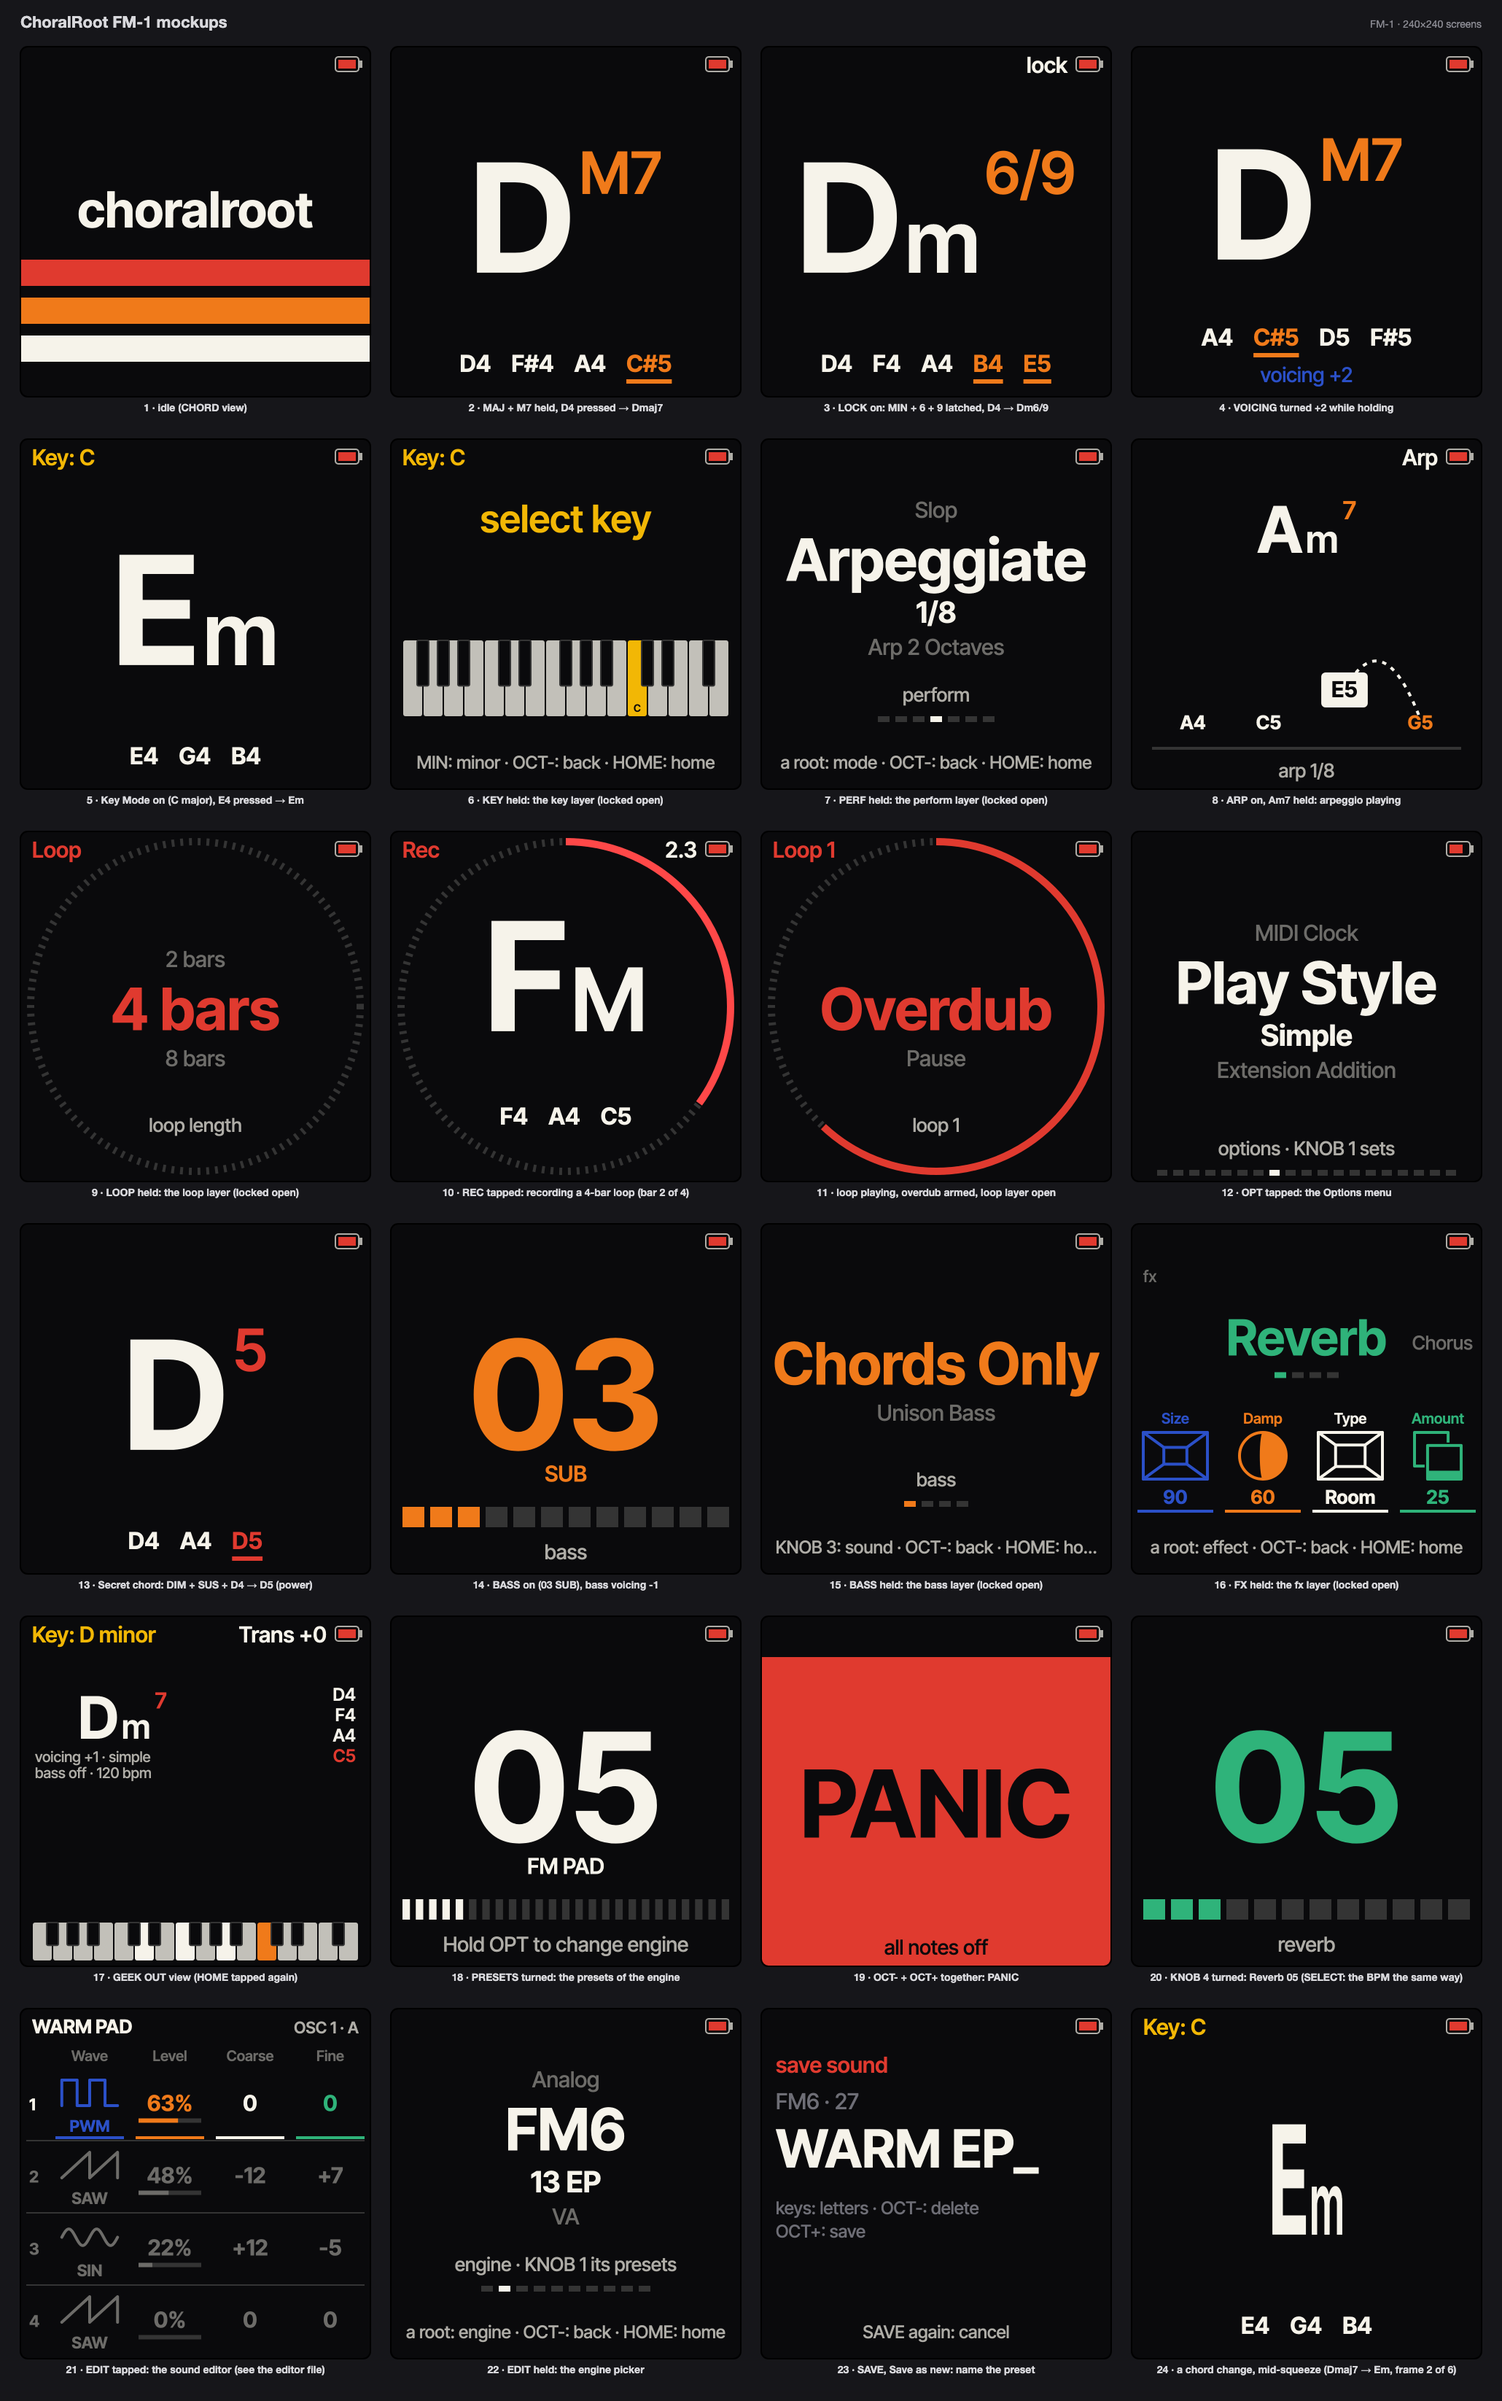
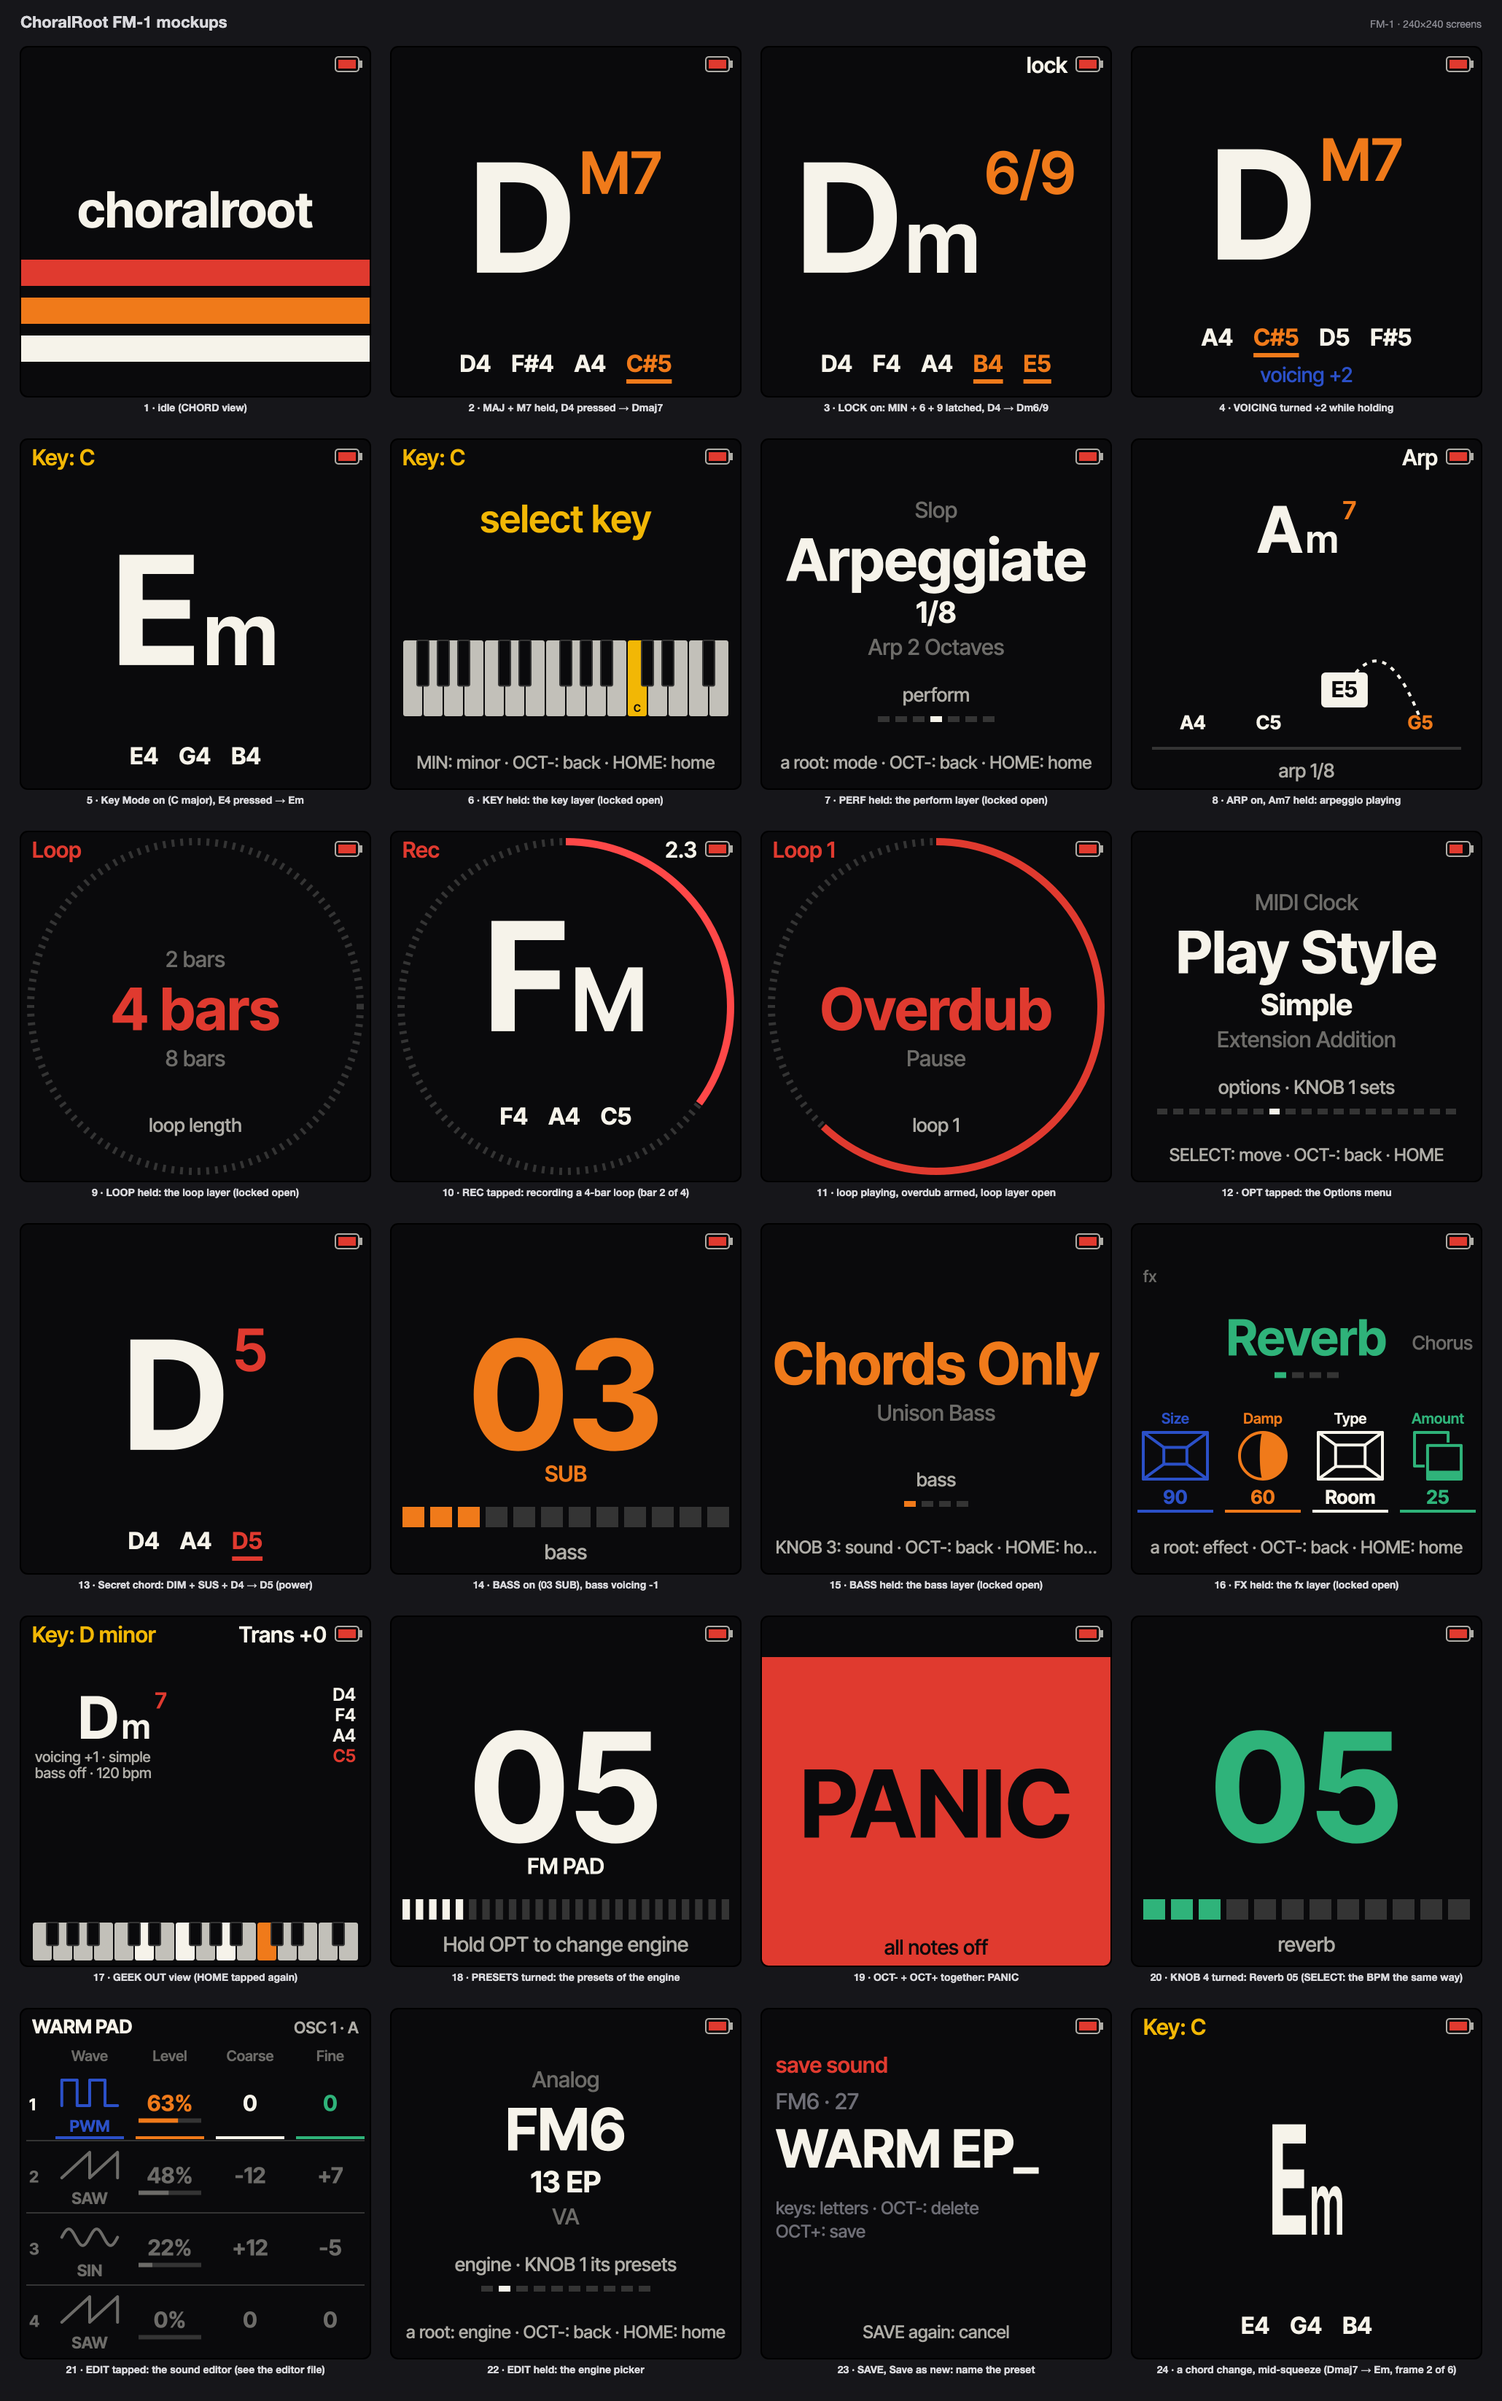
Mock-up sheets re-rendered: the layers sheet (SEQ), the Options screen's foot line
design/choralroot-fm1-layers-screens.png, -screens.png and -panels.png from
the current generator JSONs (unchanged); the other seven sheets are identical
or differ by antialiasing only and stay.

Changed region(s): [[0.7767, 0.3718, 0.9631, 0.4957]]

diff --git a/docs/HISTORY.md b/docs/HISTORY.md
@@ -1377,3 +1377,17 @@ again. Fixed at the cause: a part's trim belongs to its sound in the running fir
   BRASS 1 and PIPE ORGAN 1 saved on the two parts, the session's trims set to 0.18's in the flash file
   (`tools/emu/seed_trim.py`), a relaunch and a GLO + SAVE: trim 0 both times (before the fix: -10 / -12 both times);
   the dump prints a `trim:` line. Not run: anything on the device.
+
+## 2026-10-12 (the mock-up sheets, again)
+
+**Pictures only.** All eight `design/make_*.py` run again: no `design/*.json` changed. The designer's `examples/`
+copies of `choralroot-fm1-layers-mockups.json` and `choralroot-fm1-mockups.json` were older generator outputs and were
+refreshed. Every sheet rendered again (headless Chromium through the designer's `tools/serve.py --out`) and compared
+pixel by pixel. Replaced, each at the size it had: `choralroot-fm1-layers-screens.png` (`export=screens`, 2060 x 1140:
+the sheet's title and state 7 say SEQ, its screen has no "Metro" title), `choralroot-fm1-screens.png` (`export=screens`,
+2060 x 3292: state 12, the Options screen, has the foot line `SELECT: move · OCT-: back · HOME`) and
+`choralroot-fm1-panels.png` (`export=plate`, 1908 x 36228: state 12's screen and its longer note); the three were
+copied to the designer's `docs/`. Byte for byte the same as before: `-fx-screens`, `-loop-screens`, `-preset-screens`,
+`-quad-screens`. Left, antialiasing only (no pixel differs by more than 35 / 42 / 54 of 255; 10 / 59 / 117 pixels
+by more than 32): `-looper-screens`, `-sound-editor-screens`, `-sound-editor-panels`. `web/site/img/panel-main.png`
+not touched (its one-state design did not change).
